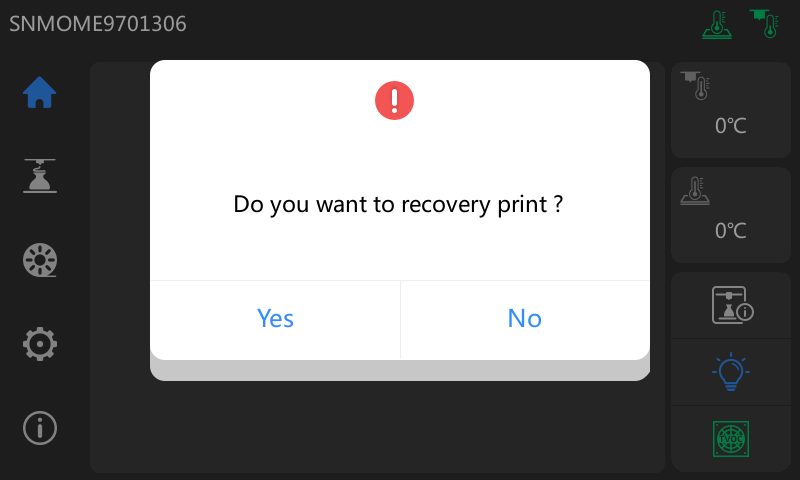
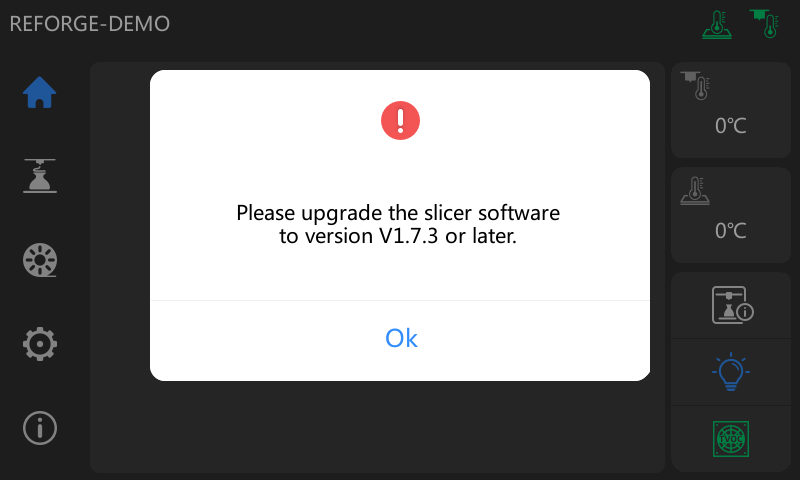
qemu/stockui: scrub captured device state (PowerOff flag + real serial)
The golden dump carries the source device's live state: /opt/config/PowerOff
(PowerFlag:ON from an interrupted print) made firmwareExe pop a recovery-print
modal, and /opt/config/Adventurer5M.json holds the real printer serial. The
render now removes PowerOff and rewrites the serial to REFORGE-DEMO, so the
committed home-screen shot is generic and ships no device-identifying data.

diff --git a/docs/screenshots/README.md b/docs/screenshots/README.md
@@ -40,9 +40,14 @@ path works (LVGL → DRM/virtio-gpu fbdev → `/dev/fb0`). Regenerate with `make
 
 The stock FlashForge UI booted all the way to its **home screen** in qemu: nav rail
 (home / print / settings / info), live nozzle + bed temperature panels, light/network/camera
-tiles, and a normal *"Do you want to recovery print?"* prompt — 901 distinct colors, fully
-interactive. ReForge overlays the stock base, so the stock UI binary (`/opt/PROGRAM/.../firmwareExe`,
-soft-float Qt4/QWS) and its Qt + tslib libs run straight from that base — no extraction, no recompile.
+tiles — fully interactive. ReForge overlays the stock base, so the stock UI binary
+(`/opt/PROGRAM/.../firmwareExe`, soft-float Qt4/QWS) and its Qt + tslib libs run straight from
+that base — no extraction, no recompile.
+
+The render scrubs two bits of captured device state from the dump: `/opt/config/PowerOff` (a
+power-loss-recovery flag that otherwise pops a *"recovery print?"* modal) is removed, and the
+real serial in `/opt/config/Adventurer5M.json` is replaced with `REFORGE-DEMO` (shown top-left).
+The remaining centred dialog is a benign stock slicer-version nag.
 
 Getting past startup needs **two gates satisfied** (firmwareExe checks them independently):
 1. an **eboard MCU serial handshake** on `/dev/ttyS1` (+`/dev/ttyS5`) @230400 — qemu virt has no
